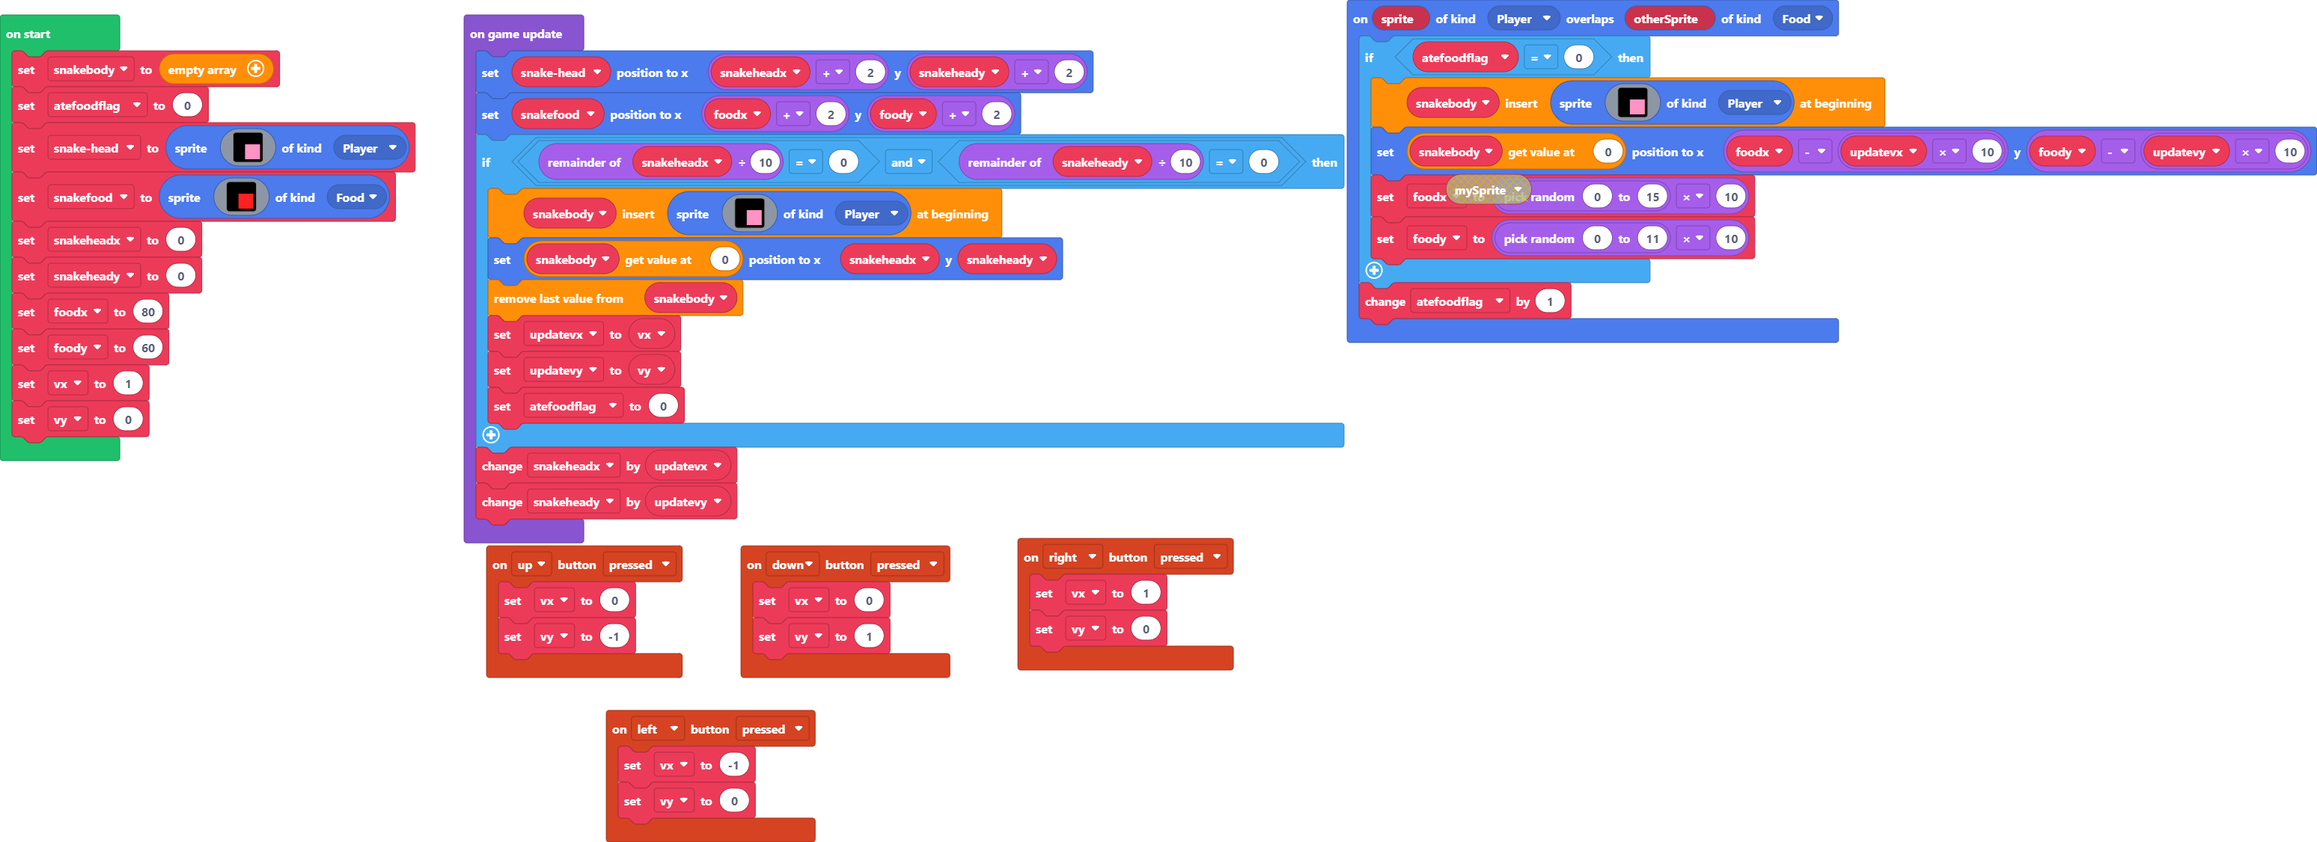
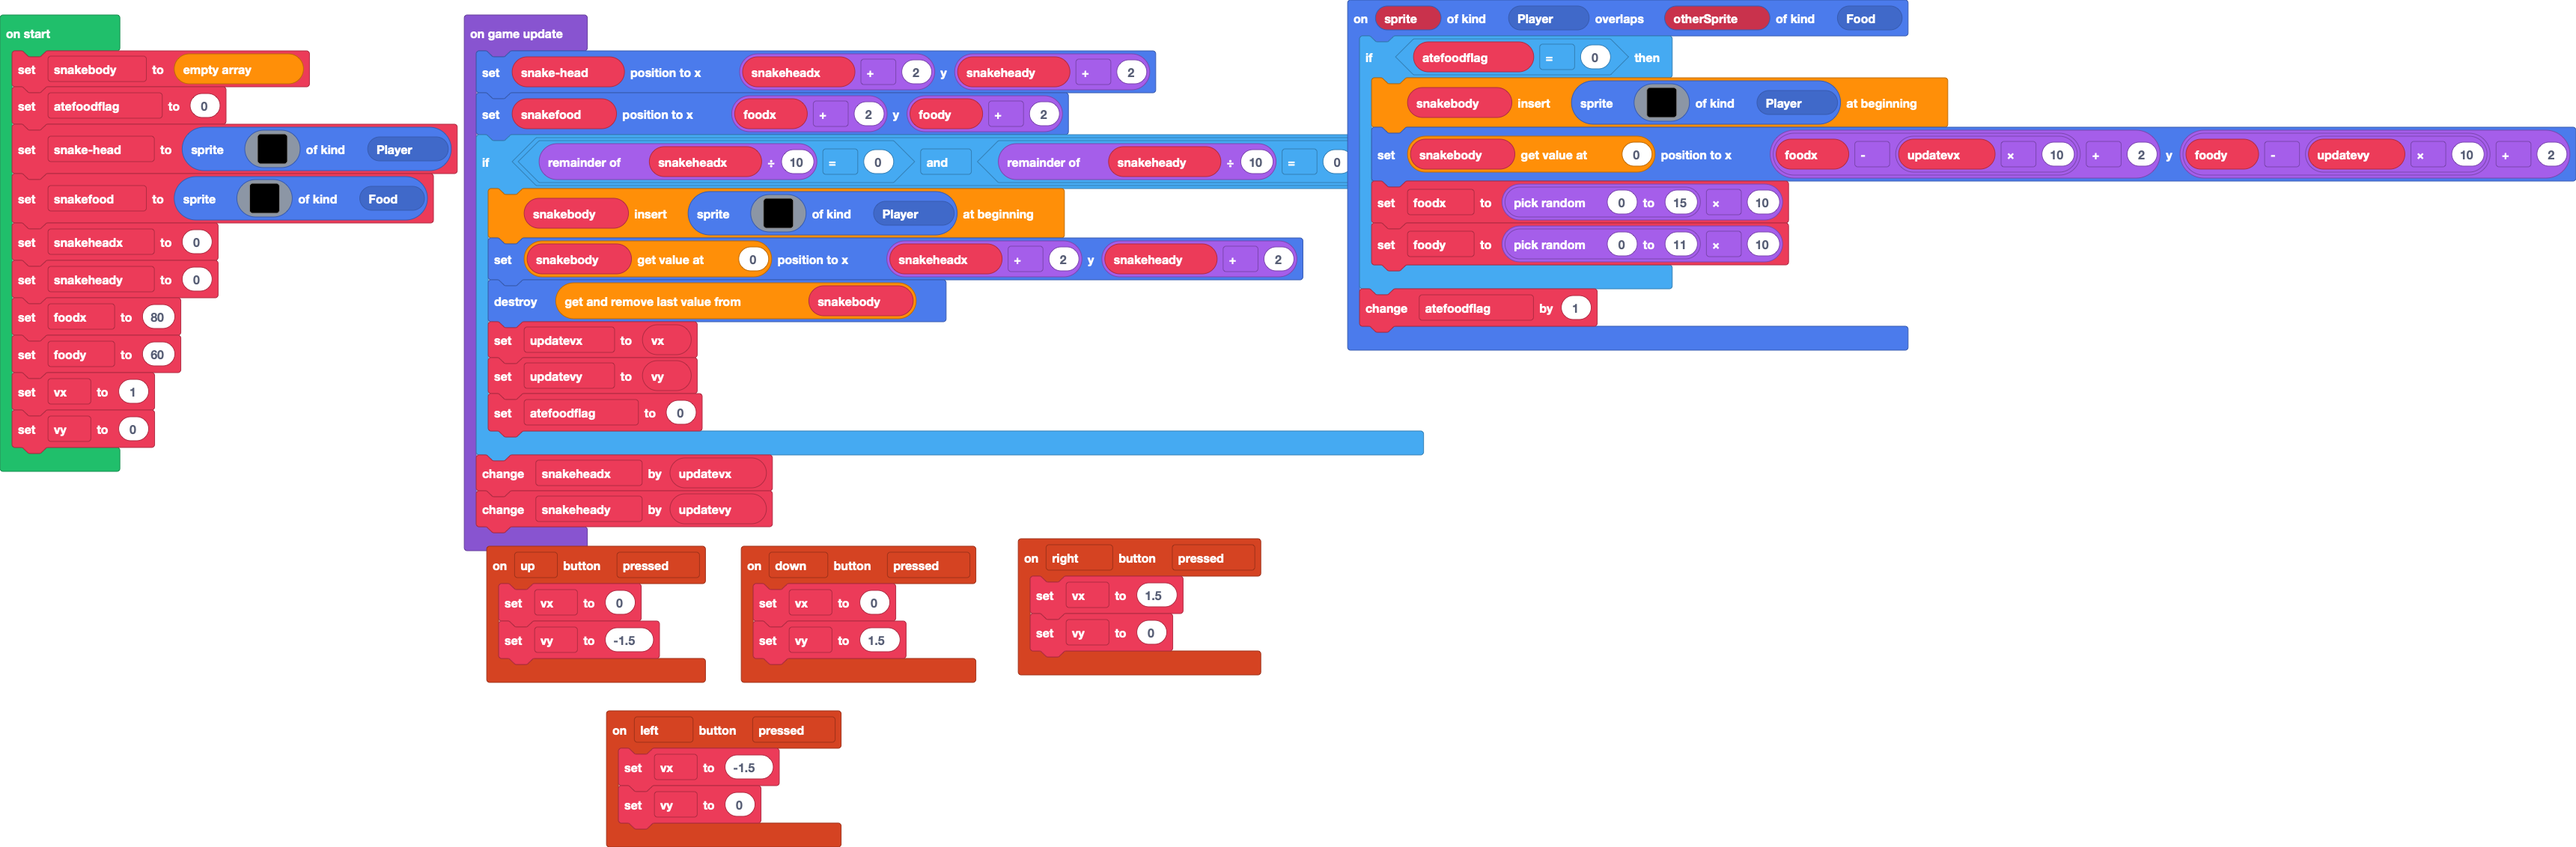
fixed the snake body

Changed region(s): [[0.0, 0.0, 1.0, 0.8082], [0.2171, 0.8393, 0.3721, 1.0]]

diff --git a/main.ts b/main.ts
@@ -1,18 +1,18 @@
 controller.up.onEvent(ControllerButtonEvent.Pressed, function () {
     vx = 0
-    vy = -1
+    vy = -1.5
 })
 controller.left.onEvent(ControllerButtonEvent.Pressed, function () {
-    vx = -1
+    vx = -1.5
     vy = 0
 })
 controller.right.onEvent(ControllerButtonEvent.Pressed, function () {
-    vx = 1
+    vx = 1.5
     vy = 0
 })
 controller.down.onEvent(ControllerButtonEvent.Pressed, function () {
     vx = 0
-    vy = 1
+    vy = 1.5
 })
 sprites.onOverlap(SpriteKind.Player, SpriteKind.Food, function (sprite, otherSprite) {
     if (atefoodflag == 0) {
@@ -23,18 +23,18 @@ sprites.onOverlap(SpriteKind.Player, SpriteKind.Food, function (sprite, otherSpr
             . . . . . . . . . . . . . . . . 
             . . . . . . . . . . . . . . . . 
             . . . . . . . . . . . . . . . . 
-            . . . . . . 3 3 3 3 3 3 3 3 3 3 
-            . . . . . . 3 3 3 3 3 3 3 3 3 3 
-            . . . . . . 3 3 3 3 3 3 3 3 3 3 
-            . . . . . . 3 3 3 3 3 3 3 3 3 3 
-            . . . . . . 3 3 3 3 3 3 3 3 3 3 
-            . . . . . . 3 3 3 3 3 3 3 3 3 3 
-            . . . . . . 3 3 3 3 3 3 3 3 3 3 
-            . . . . . . 3 3 3 3 3 3 3 3 3 3 
-            . . . . . . 3 3 3 3 3 3 3 3 3 3 
-            . . . . . . 3 3 3 3 3 3 3 3 3 3 
+            . . . . . . f f 7 7 7 7 7 7 f f 
+            . . . . . . 7 7 f f f f f f 7 7 
+            . . . . . . f f 7 7 7 7 7 7 f f 
+            . . . . . . 7 7 f f f f f f 7 7 
+            . . . . . . f f 7 7 7 7 7 7 f f 
+            . . . . . . 7 7 f f f f f f 7 7 
+            . . . . . . f f 7 7 7 7 7 7 f f 
+            . . . . . . 7 7 f f f f f f 7 7 
+            . . . . . . f f 7 7 7 7 7 7 f f 
+            . . . . . . 7 7 f f f f f f 7 7 
             `, SpriteKind.Player))
-        snakebody[0].setPosition(foodx - updatevx * 10, foody - updatevy * 10)
+        snakebody[0].setPosition(foodx - updatevx * 10 + 2, foody - updatevy * 10 + 2)
         foodx = randint(0, 15) * 10
         foody = randint(0, 11) * 10
     }
@@ -57,16 +57,16 @@ let snakehead = sprites.create(img`
     . . . . . . . . . . . . . . . . 
     . . . . . . . . . . . . . . . . 
     . . . . . . . . . . . . . . . . 
-    . . . . . . 3 3 3 3 3 3 3 3 3 3 
-    . . . . . . 3 3 3 3 3 3 3 3 3 3 
-    . . . . . . 3 3 3 3 3 3 3 3 3 3 
-    . . . . . . 3 3 3 3 3 3 3 3 3 3 
-    . . . . . . 3 3 3 3 3 3 3 3 3 3 
-    . . . . . . 3 3 3 3 3 3 3 3 3 3 
-    . . . . . . 3 3 3 3 3 3 3 3 3 3 
-    . . . . . . 3 3 3 3 3 3 3 3 3 3 
-    . . . . . . 3 3 3 3 3 3 3 3 3 3 
-    . . . . . . 3 3 3 3 3 3 3 3 3 3 
+    . . . . . . 7 7 7 7 7 7 7 7 7 7 
+    . . . . . . 7 7 7 7 7 7 7 7 7 7 
+    . . . . . . 7 7 7 7 7 7 7 7 7 7 
+    . . . . . . 7 7 f 7 7 7 7 f 7 7 
+    . . . . . . 7 7 7 7 7 7 7 7 7 7 
+    . . . . . . 7 7 7 7 7 7 7 7 7 7 
+    . . . . . . 7 7 f f f f f f 7 7 
+    . . . . . . 7 f 3 1 3 3 1 3 f 7 
+    . . . . . . 7 f 3 3 2 2 3 3 f 7 
+    . . . . . . 7 7 f f 2 2 f f 7 7 
     `, SpriteKind.Player)
 let snakefood = sprites.create(img`
     . . . . . . . . . . . . . . . . 
@@ -75,16 +75,16 @@ let snakefood = sprites.create(img`
     . . . . . . . . . . . . . . . . 
     . . . . . . . . . . . . . . . . 
     . . . . . . . . . . . . . . . . 
-    . . . . . . 2 2 2 2 2 2 2 2 2 2 
-    . . . . . . 2 2 2 2 2 2 2 2 2 2 
-    . . . . . . 2 2 2 2 2 2 2 2 2 2 
-    . . . . . . 2 2 2 2 2 2 2 2 2 2 
-    . . . . . . 2 2 2 2 2 2 2 2 2 2 
-    . . . . . . 2 2 2 2 2 2 2 2 2 2 
-    . . . . . . 2 2 2 2 2 2 2 2 2 2 
-    . . . . . . 2 2 2 2 2 2 2 2 2 2 
-    . . . . . . 2 2 2 2 2 2 2 2 2 2 
-    . . . . . . 2 2 2 2 2 2 2 2 2 2 
+    . . . . . . f f f f 7 7 f f f f 
+    . . . . . . f f f f 7 f f f f f 
+    . . . . . . f f f 2 2 2 2 f f f 
+    . . . . . . f f 2 2 2 2 2 2 f f 
+    . . . . . . f 2 2 2 2 2 2 2 2 f 
+    . . . . . . f 2 2 2 2 2 2 2 2 f 
+    . . . . . . f 2 2 2 2 2 2 2 2 f 
+    . . . . . . f 2 2 2 2 2 2 2 2 f 
+    . . . . . . f f 2 2 2 2 2 2 f f 
+    . . . . . . f f f 2 2 2 2 f f f 
     `, SpriteKind.Food)
 let snakeheadx = 0
 let snakeheady = 0
@@ -103,19 +103,19 @@ game.onUpdate(function () {
             . . . . . . . . . . . . . . . . 
             . . . . . . . . . . . . . . . . 
             . . . . . . . . . . . . . . . . 
-            . . . . . . 3 3 3 3 3 3 3 3 3 3 
-            . . . . . . 3 3 3 3 3 3 3 3 3 3 
-            . . . . . . 3 3 3 3 3 3 3 3 3 3 
-            . . . . . . 3 3 3 3 3 3 3 3 3 3 
-            . . . . . . 3 3 3 3 3 3 3 3 3 3 
-            . . . . . . 3 3 3 3 3 3 3 3 3 3 
-            . . . . . . 3 3 3 3 3 3 3 3 3 3 
-            . . . . . . 3 3 3 3 3 3 3 3 3 3 
-            . . . . . . 3 3 3 3 3 3 3 3 3 3 
-            . . . . . . 3 3 3 3 3 3 3 3 3 3 
+            . . . . . . f f 7 7 7 7 7 7 f f 
+            . . . . . . 7 7 f f f f f f 7 7 
+            . . . . . . f f 7 7 7 7 7 7 f f 
+            . . . . . . 7 7 f f f f f f 7 7 
+            . . . . . . f f 7 7 7 7 7 7 f f 
+            . . . . . . 7 7 f f f f f f 7 7 
+            . . . . . . f f 7 7 7 7 7 7 f f 
+            . . . . . . 7 7 f f f f f f 7 7 
+            . . . . . . f f 7 7 7 7 7 7 f f 
+            . . . . . . 7 7 f f f f f f 7 7 
             `, SpriteKind.Player))
-        snakebody[0].setPosition(snakeheadx, snakeheady)
-        snakebody.pop()
+        snakebody[0].setPosition(snakeheadx + 2, snakeheady + 2)
+        snakebody.pop().destroy()
         updatevx = vx
         updatevy = vy
         atefoodflag = 0
